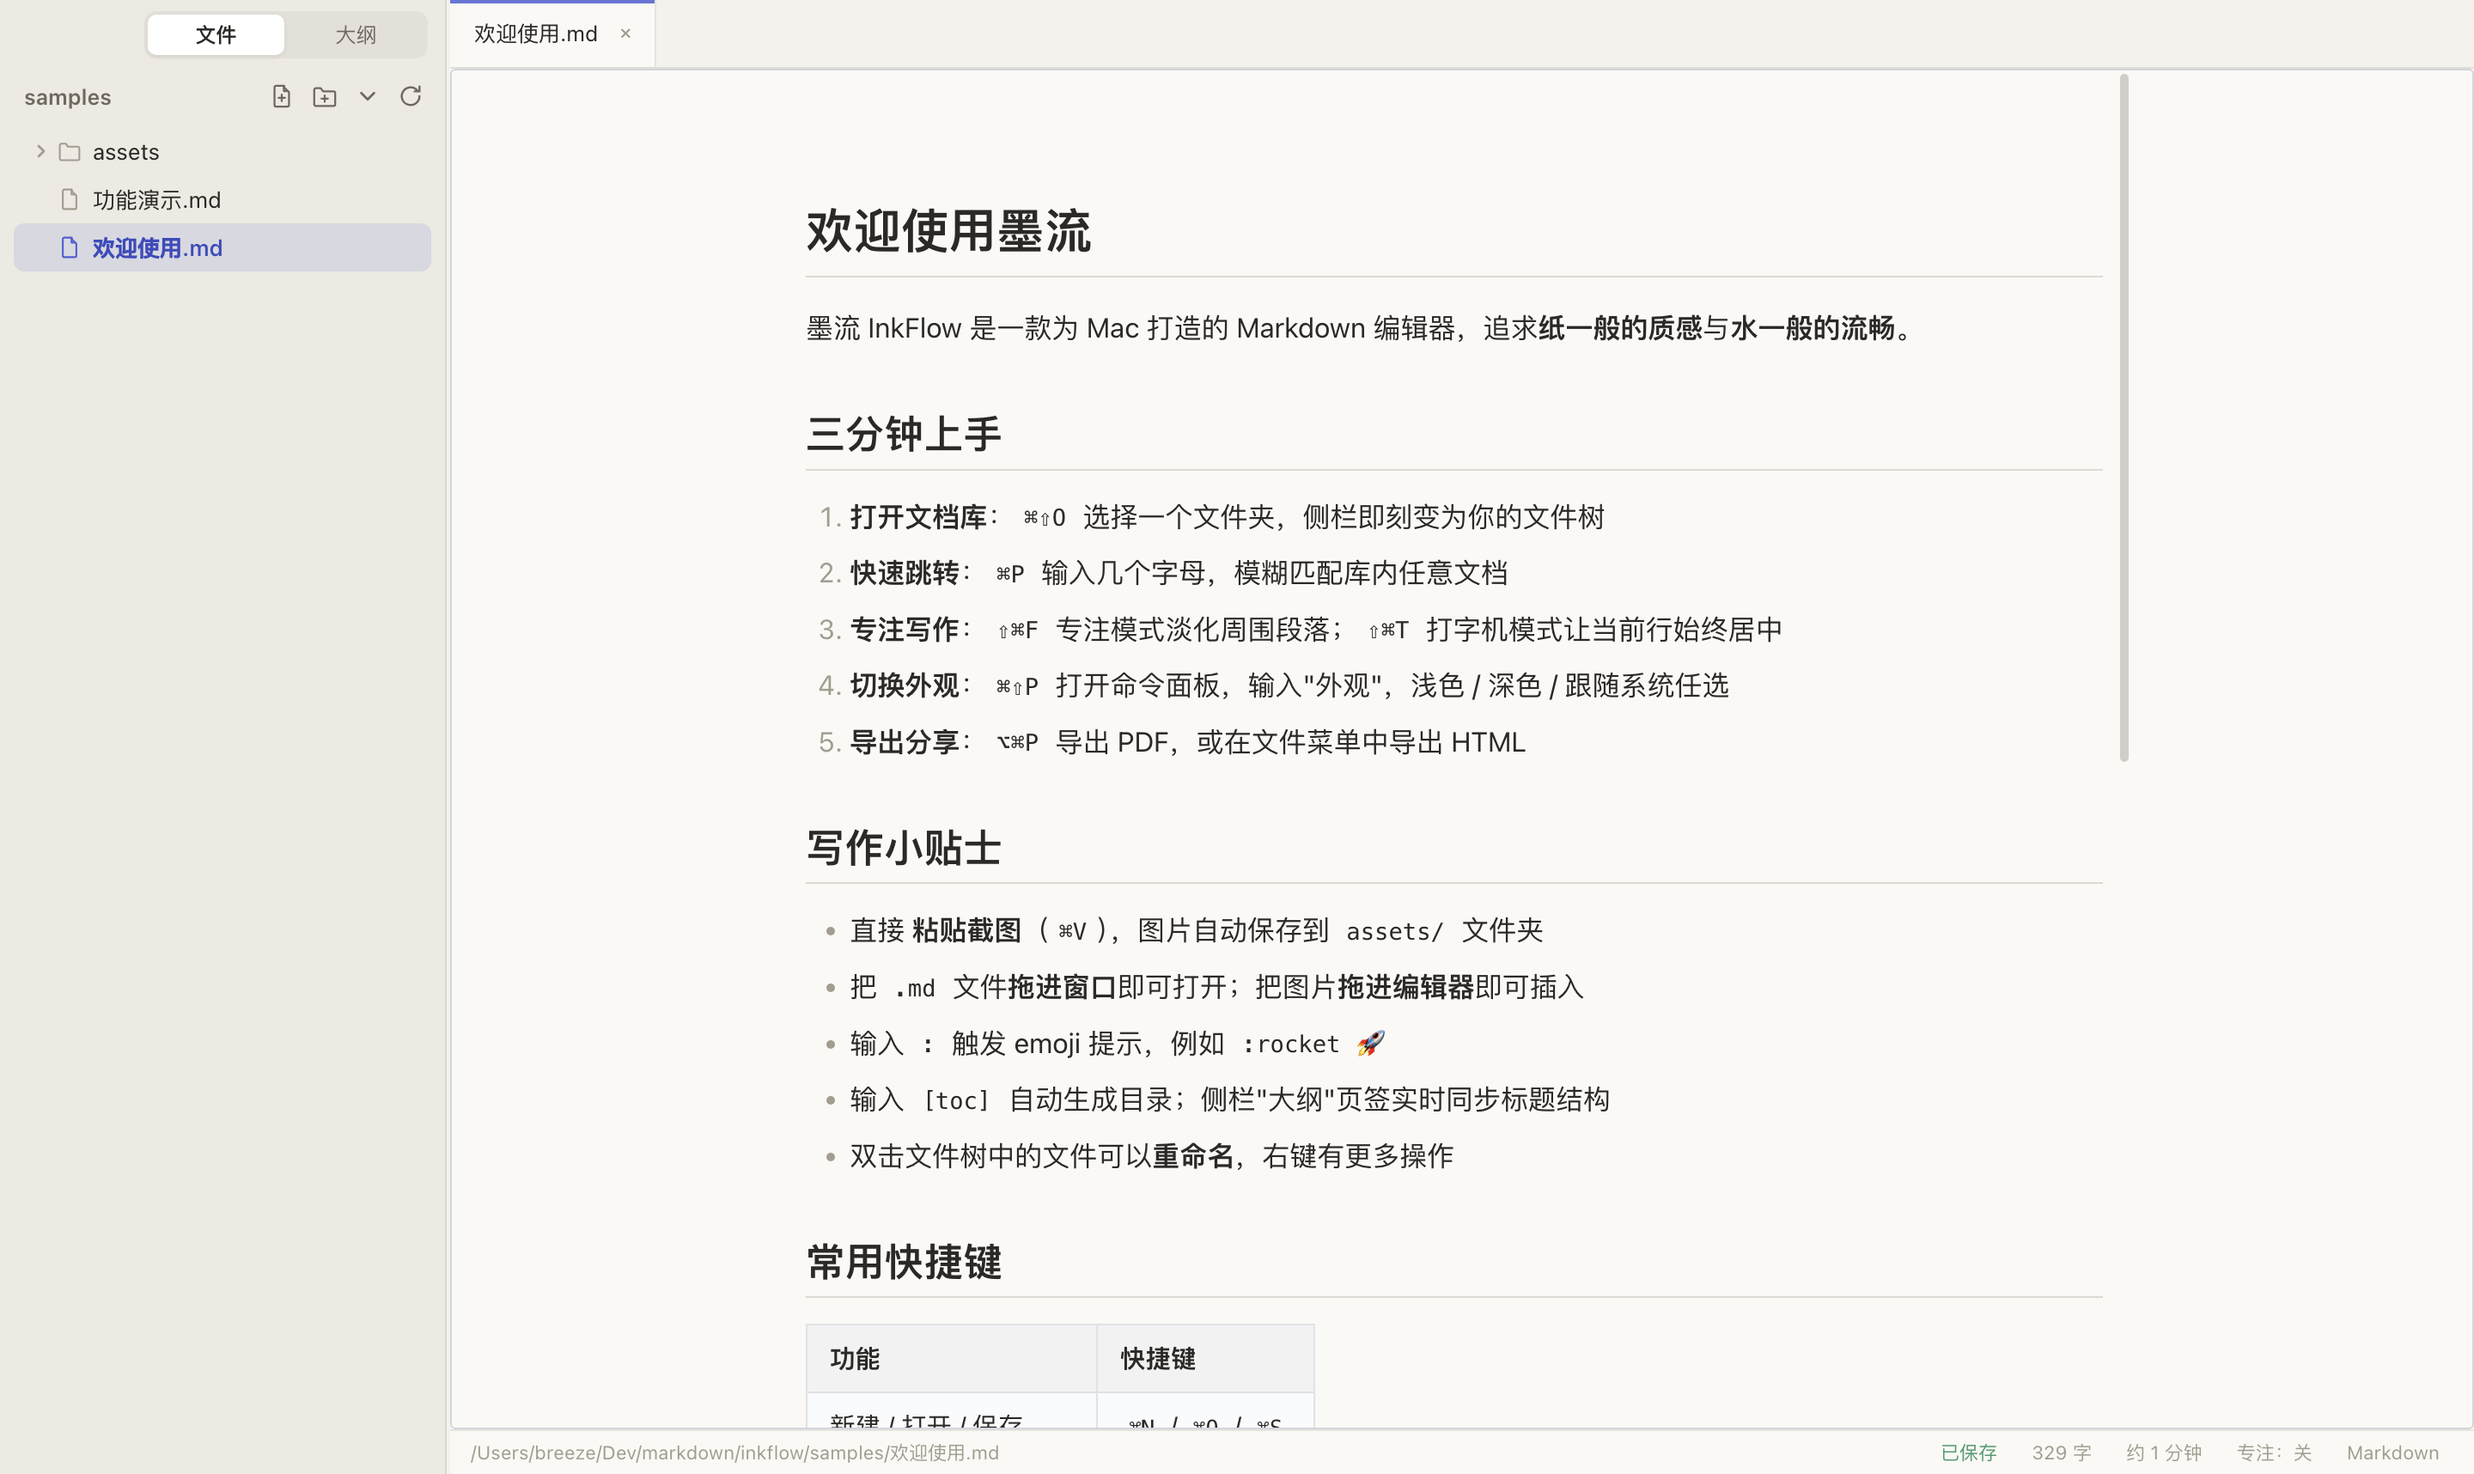
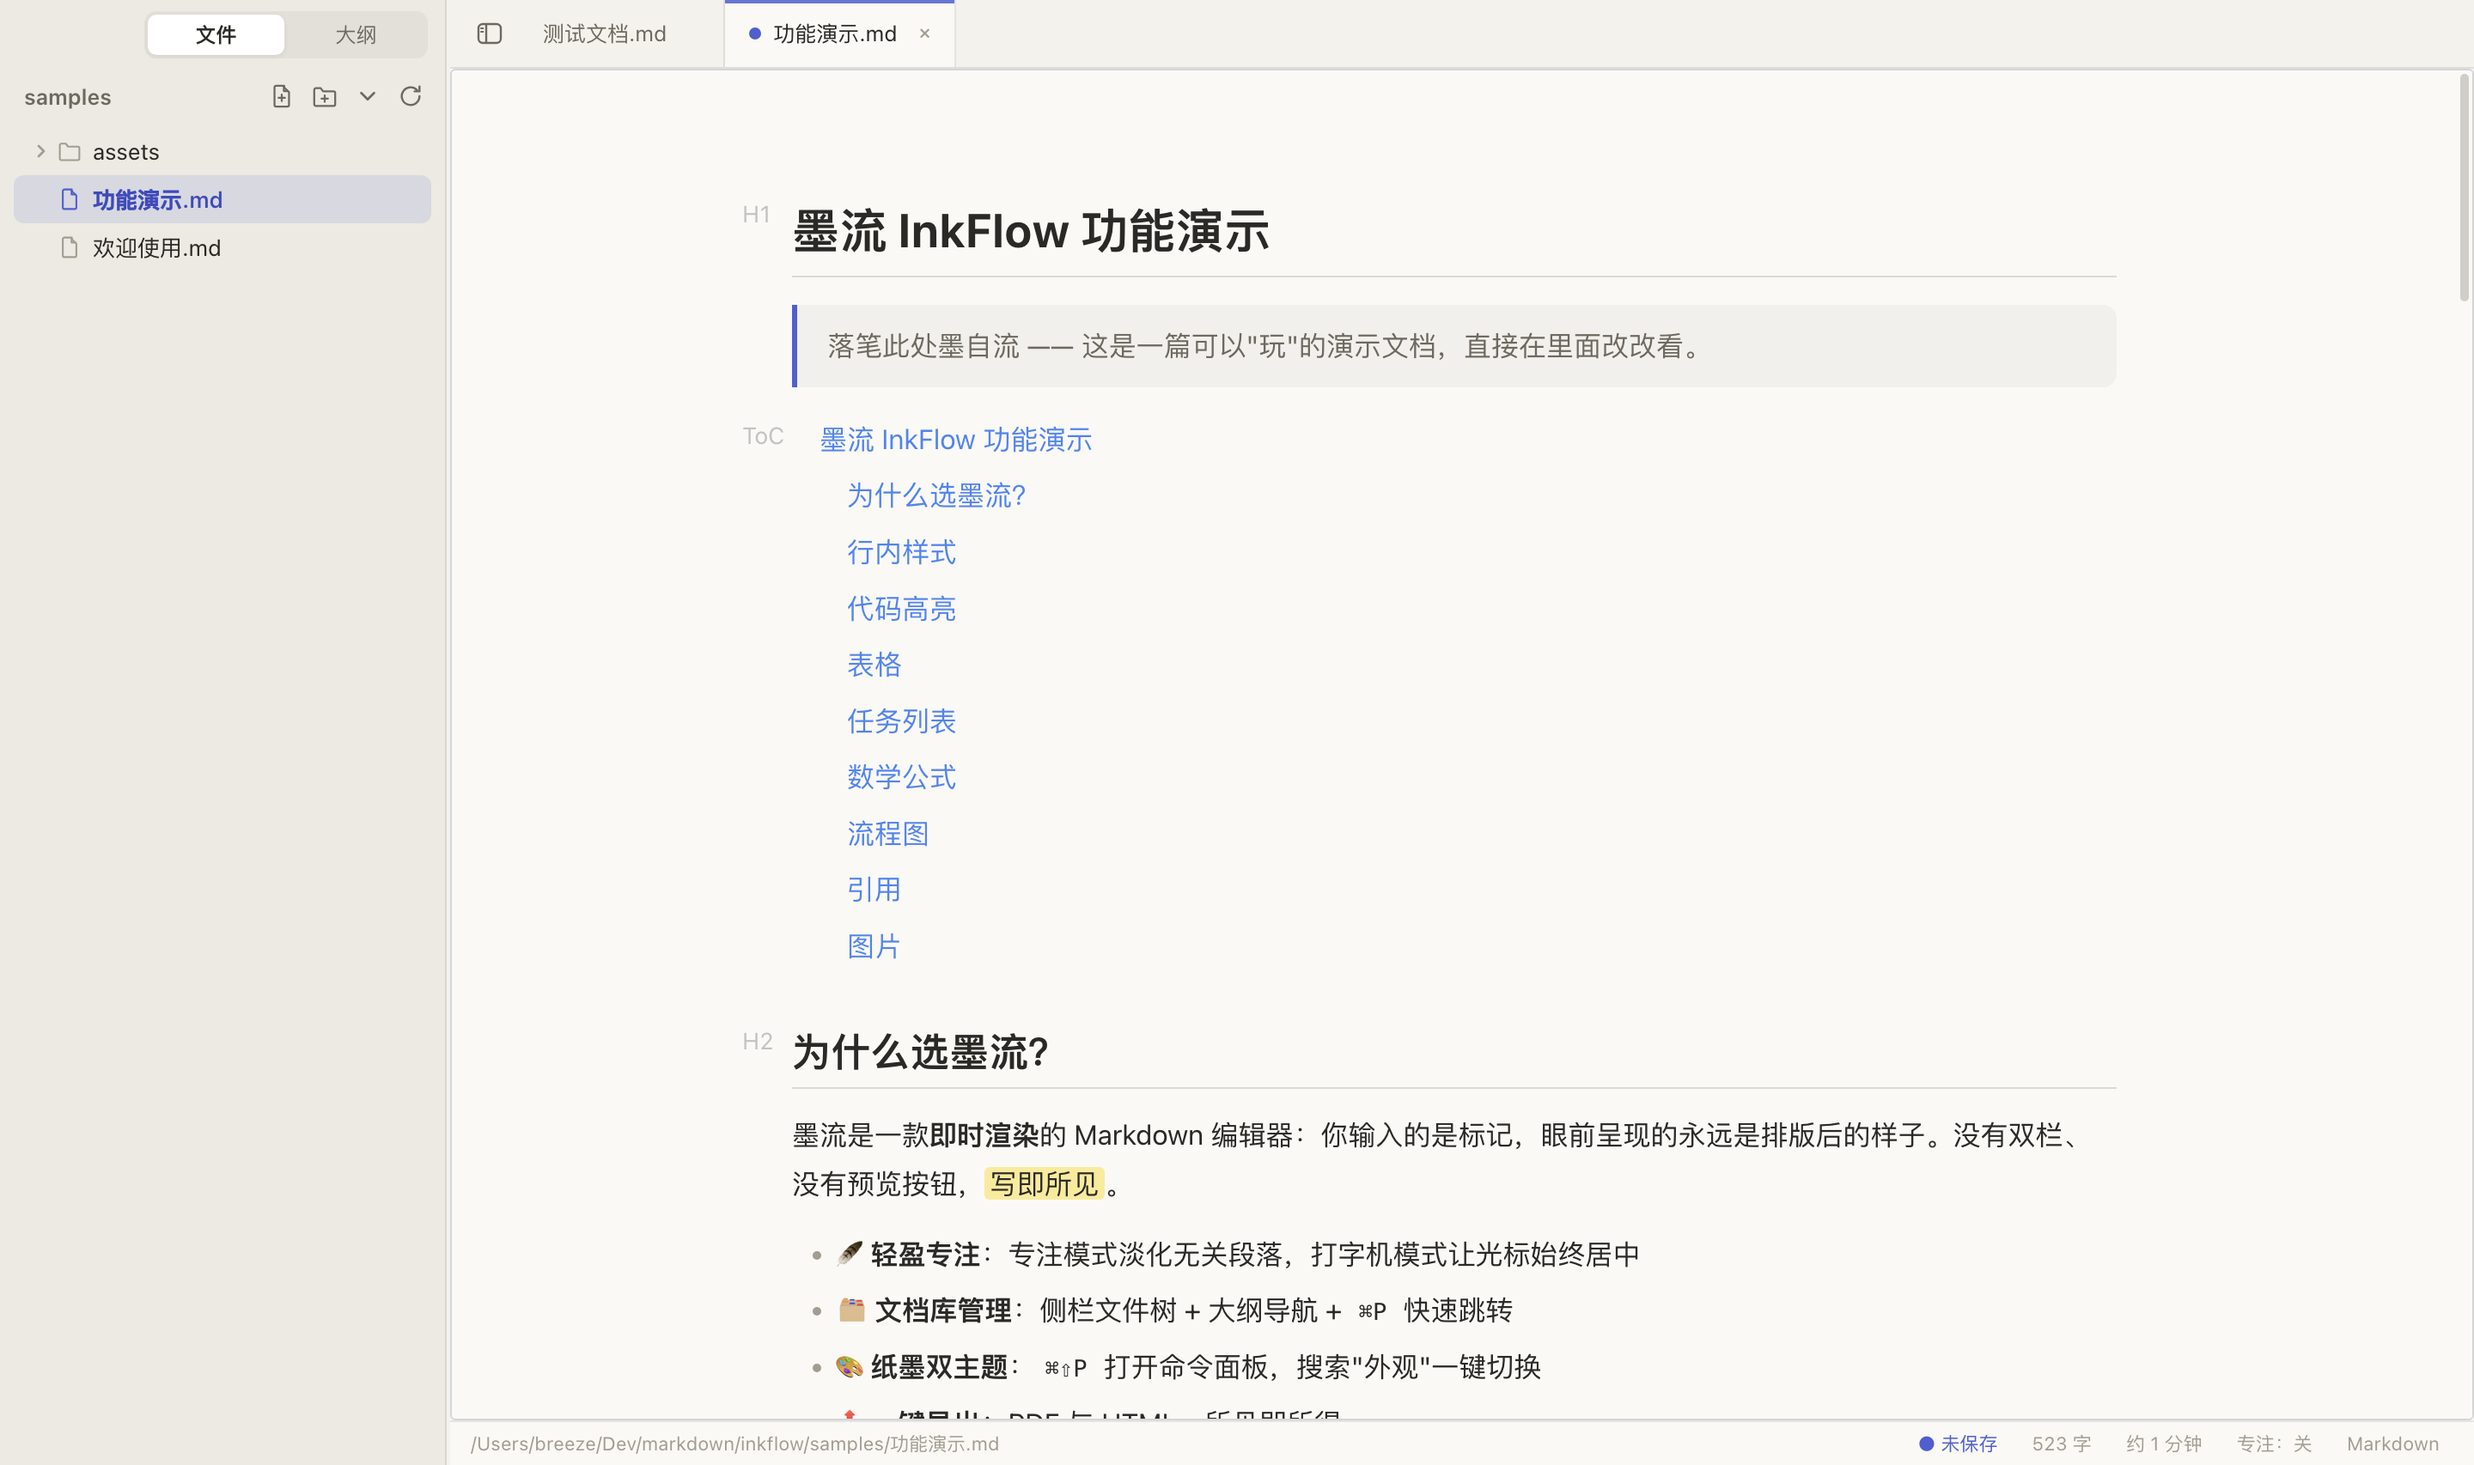
feat: 滚动条贴窗口右缘 + 页面宽度(正常/超宽) + 侧栏折叠按钮
- 滚动容器改为全宽，文本列用自适应 padding 居中（--page-width 变量）
- 视图菜单/命令面板新增页面宽度切换，设置持久化
- 标签栏左侧新增侧栏折叠按钮，折叠时为红绿灯让位
- 新增 page-width / sidebar-toggle 回归断言，13/13 通过

diff --git a/renderer/js/app.js b/renderer/js/app.js
@@ -23,6 +23,7 @@ const App = {
     Overlay.init();
     this._applyThemeSetting(this.settings.theme || 'system');
     this._applyFontSize(this.settings.fontSize || 16);
+    this._applyPageWidth(this.settings.pageWidth || 'normal');
     document.body.dataset.sidebar = this.settings.sidebarVisible === false ? 'hidden' : 'visible';
     document.body.dataset.focus = this.settings.focusMode ? 'on' : 'off';
     document.body.dataset.toolbar = this.settings.showToolbar ? 'show' : 'hide';
@@ -287,6 +288,7 @@ const App = {
     $('#btn-refresh').onclick = () => FileTree.refresh();
     $('#btn-collapse').onclick = () => FileTree.collapseAll();
     $('#btn-open-folder-empty').onclick = () => this.openFolderDialog();
+    $('#btn-sidebar-toggle').onclick = () => this.toggleSidebar();
 
     // 欢迎页
     $('#wa-new').onclick = () => this.newUntitled();
@@ -458,6 +460,18 @@ const App = {
     this.setSetting({ fontSize: size });
   },
 
+  /* ================= 页面宽度 ================= */
+  _applyPageWidth(mode) {
+    document.documentElement.style.setProperty('--page-width', mode === 'wide' ? '1120px' : '780px');
+    this.settings.pageWidth = mode;
+  },
+
+  setPageWidth(mode) {
+    this._applyPageWidth(mode);
+    this.setSetting({ pageWidth: mode });
+    toast(mode === 'wide' ? '已切换为超宽页面' : '已切换为正常页面');
+  },
+
   /* ================= 状态渲染 ================= */
   _renderTabs() {
     const box = $('#tabs');
@@ -567,6 +581,8 @@ const App = {
       { icon: 'cmd', title: '外观：浅色', run: () => this.setTheme('light') },
       { icon: 'cmd', title: '外观：深色', run: () => this.setTheme('dark') },
       { icon: 'cmd', title: '外观：跟随系统', run: () => this.setTheme('system') },
+      { icon: 'cmd', title: '页面宽度：正常', run: () => this.setPageWidth('normal') },
+      { icon: 'cmd', title: '页面宽度：超宽', run: () => this.setPageWidth('wide') },
       { icon: 'cmd', title: '放大字号', kbd: '⌘=', run: () => this.zoom(1) },
       { icon: 'cmd', title: '缩小字号', kbd: '⌘-', run: () => this.zoom(-1) },
       { icon: 'cmd', title: '重置字号', kbd: '⌘0', run: () => this.zoom(0) },
@@ -626,6 +642,7 @@ const App = {
         case 'toggle-focus': this.toggleFocus(payload); break;
         case 'toggle-typewriter': this.toggleTypewriter(payload); break;
         case 'set-theme': this.setTheme(payload); break;
+        case 'set-page-width': this.setPageWidth(payload); break;
         case 'system-theme-changed': this.systemThemeChanged(); break;
         case 'zoom': this.zoom(payload); break;
         case 'show-shortcuts': $('#modal-shortcuts').classList.remove('hidden'); break;

diff --git a/main/main.js b/main/main.js
@@ -550,6 +550,10 @@ async function runSmoke() {
       mainWin.webContents.send('menu:action', { action: 'quick-open' });
     } else if (shot === 'outline') {
       mainWin.webContents.send('menu:action', { action: 'toggle-outline' });
+    } else if (shot === 'wide') {
+      mainWin.webContents.send('menu:action', { action: 'set-page-width', payload: 'wide' });
+    } else if (shot === 'sidebar-off') {
+      mainWin.webContents.send('menu:action', { action: 'toggle-sidebar' });
     } else if (shot.startsWith('scroll-')) {
       const y = parseInt(shot.split('-')[1], 10) || 0;
       await mainWin.webContents.executeJavaScript(`
@@ -642,6 +646,31 @@ async function runFuncSmoke() {
     return pre && ir && ir.clientHeight ? pre.clientHeight / ir.clientHeight : 0;
   })()`);
   results.push(['editor-full-height', hRatio > 0.85]);
+
+  // 6.9 页面宽度切换：超宽时文本列变宽（padding 减小），滚动容器保持全宽
+  const pw = await js(`(() => {
+    const pre = document.querySelector('.vditor-ir > .vditor-reset');
+    const ir = document.querySelector('.vditor-ir');
+    const before = { preW: pre.clientWidth, pad: parseInt(getComputedStyle(pre).paddingLeft) };
+    App.setPageWidth('wide');
+    const mid = parseInt(getComputedStyle(pre).paddingLeft);
+    App.setPageWidth('normal');
+    const after = parseInt(getComputedStyle(pre).paddingLeft);
+    // 滚动容器应基本全宽（允许自身滚动条占位 ~16px）
+    return { fullBleed: before.preW >= ir.clientWidth - 20, mid, after, before: before.pad };
+  })()`);
+  results.push(['page-width', pw.fullBleed && pw.mid < pw.after && pw.after === pw.before]);
+
+  // 6.95 侧栏折叠与恢复
+  const sb = await js(`(() => {
+    const before = document.body.dataset.sidebar;
+    App.toggleSidebar();
+    const hidden = document.body.dataset.sidebar;
+    App.toggleSidebar();
+    const back = document.body.dataset.sidebar;
+    return { before, hidden, back };
+  })()`);
+  results.push(['sidebar-toggle', sb.hidden === 'hidden' && sb.back === sb.before]);
 
   // 7. 主题切换不报错
   await js(`App.setTheme('dark')`);

diff --git a/renderer/css/vditor-custom.css b/renderer/css/vditor-custom.css
@@ -62,16 +62,17 @@ body[data-toolbar="show"] #vditor .vditor-toolbar { display: flex; }
   line-height: 1.8;
   caret-color: var(--accent);
   /* 注意：绝不能加大底部 padding —— 会挤占内层 PRE 滚动容器的高度 */
-  padding: 0 24px !important;
+  padding: 0 !important;
 }
-/* 内容列居中；底部留白由 vditor 打字机 :after spacer 提供 */
+/* 内容宽度由 --page-width 控制：滚动容器全宽（滚动条贴窗口右缘），
+   文本列通过自适应 padding 居中；底部留白由 vditor 打字机 :after spacer 提供 */
 #vditor .vditor-ir > .vditor-reset,
 #vditor .vditor-wysiwyg > .vditor-reset {
-  max-width: 780px;
-  margin: 0 auto;
+  max-width: none;
+  margin: 0;
   padding-top: 36px !important;
-  padding-left: 8px !important;
-  padding-right: 8px !important;
+  padding-left: max(28px, calc((100% - var(--page-width, 780px)) / 2)) !important;
+  padding-right: max(28px, calc((100% - var(--page-width, 780px)) / 2)) !important;
 }
 #vditor .vditor-ir::selection,
 #vditor .vditor-ir ::selection { background: var(--selection); }

diff --git a/main/menu.js b/main/menu.js
@@ -109,6 +109,13 @@ function buildMenu(win, ctx) {
         { type: 'separator' },
         { label: '专注模式', accelerator: 'CmdOrCtrl+Shift+F', type: 'checkbox', checked: ctx.getSetting('focusMode', false), click: (item) => send(win, 'toggle-focus', item.checked) },
         { label: '打字机模式', accelerator: 'CmdOrCtrl+Shift+T', type: 'checkbox', checked: ctx.getSetting('typewriter', true), click: (item) => send(win, 'toggle-typewriter', item.checked) },
+        {
+          label: '页面宽度',
+          submenu: [
+            { label: '正常', type: 'radio', checked: ctx.getSetting('pageWidth', 'normal') === 'normal', click: () => send(win, 'set-page-width', 'normal') },
+            { label: '超宽', type: 'radio', checked: ctx.getSetting('pageWidth', 'normal') === 'wide', click: () => send(win, 'set-page-width', 'wide') },
+          ],
+        },
         { type: 'separator' },
         { label: '外观：浅色', click: () => send(win, 'set-theme', 'light') },
         { label: '外观：深色', click: () => send(win, 'set-theme', 'dark') },

diff --git a/renderer/css/app.css b/renderer/css/app.css
@@ -214,6 +214,26 @@ body[data-theme="dark"] .outline-item.active { color: var(--accent); }
   align-items: stretch;
   overflow: hidden;
 }
+/* 侧栏折叠时，红绿灯移到标签栏左侧，需让位 */
+body[data-sidebar="hidden"] #tabbar { padding-left: 84px; }
+
+#btn-sidebar-toggle {
+  width: 30px;
+  margin: 7px 2px 7px 8px;
+  flex-shrink: 0;
+  border: none;
+  background: transparent;
+  color: var(--text-2);
+  border-radius: var(--radius-s);
+  cursor: pointer;
+  display: flex;
+  align-items: center;
+  justify-content: center;
+  transition: all .13s var(--ease);
+}
+#btn-sidebar-toggle svg { width: 16px; height: 16px; }
+#btn-sidebar-toggle:hover { background: var(--bg-sidebar-hover); color: var(--text-1); }
+body[data-sidebar="hidden"] #btn-sidebar-toggle { margin-left: 2px; }
 
 #tabs {
   display: flex;

diff --git a/renderer/index.html b/renderer/index.html
@@ -55,6 +55,9 @@
     <!-- 主区域 -->
     <main id="main">
       <div id="tabbar" class="drag-region">
+        <button id="btn-sidebar-toggle" class="no-drag" title="折叠/展开侧边栏 (⇧⌘L)">
+          <svg viewBox="0 0 16 16" fill="none"><rect x="1.5" y="2.5" width="13" height="11" rx="2.5" stroke="currentColor" stroke-width="1.2"/><path d="M6 2.8v10.4" stroke="currentColor" stroke-width="1.2"/><path d="M3 5h1.2M3 7h1.2" stroke="currentColor" stroke-width="1" stroke-linecap="round"/></svg>
+        </button>
         <div id="tabs" class="no-drag"></div>
       </div>
 
